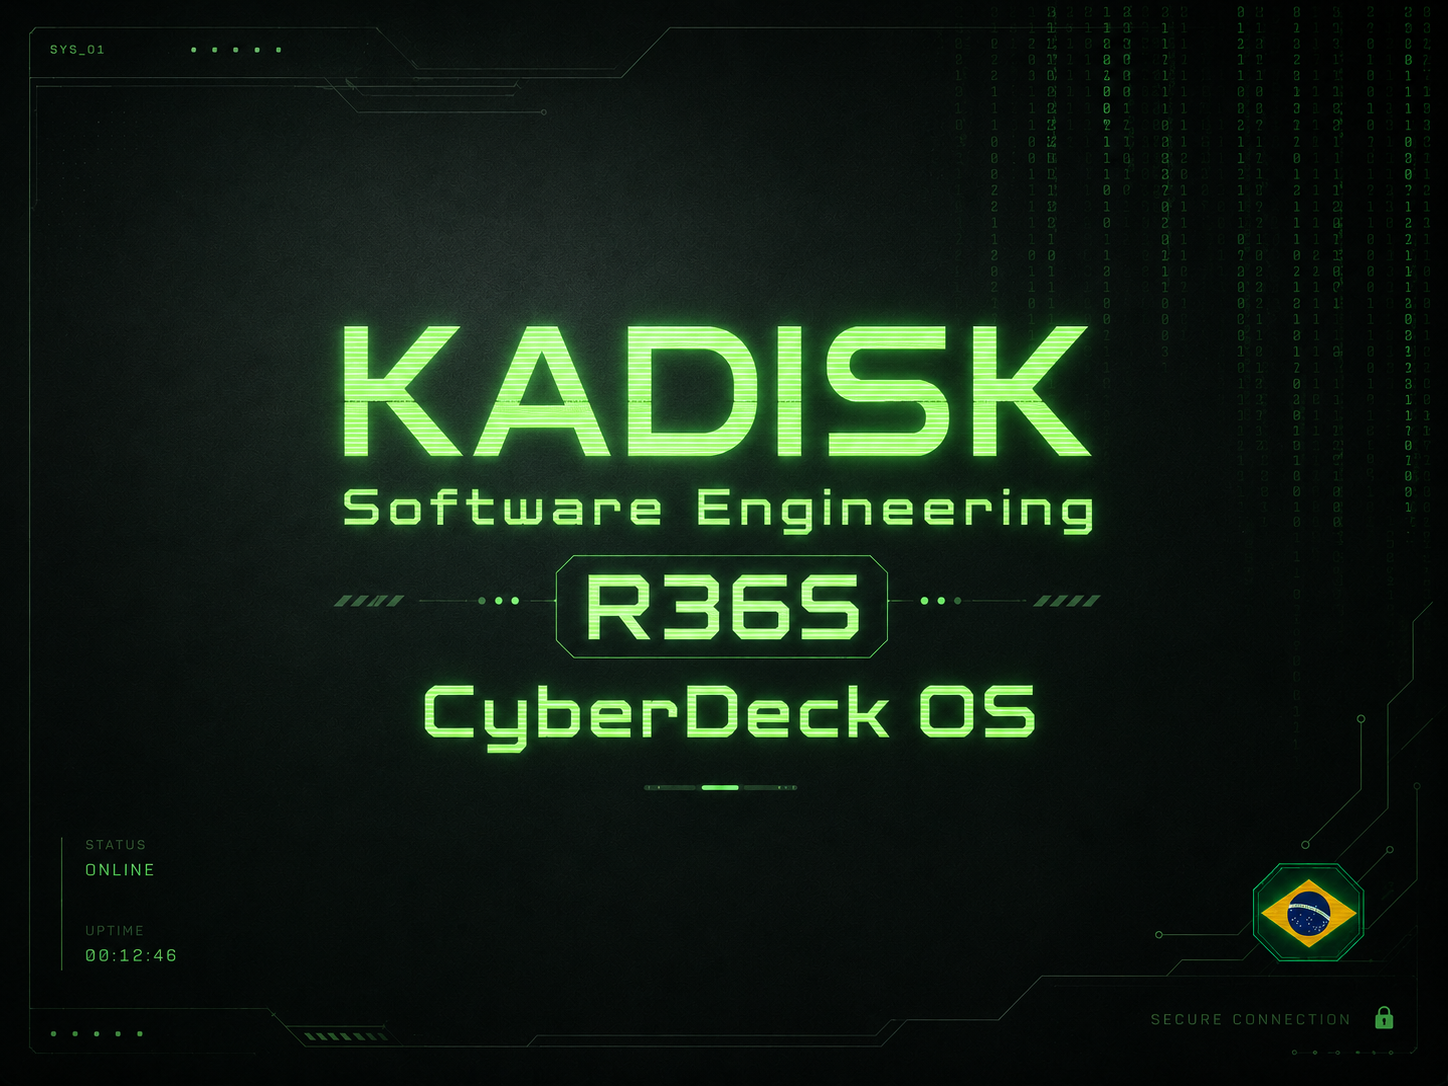
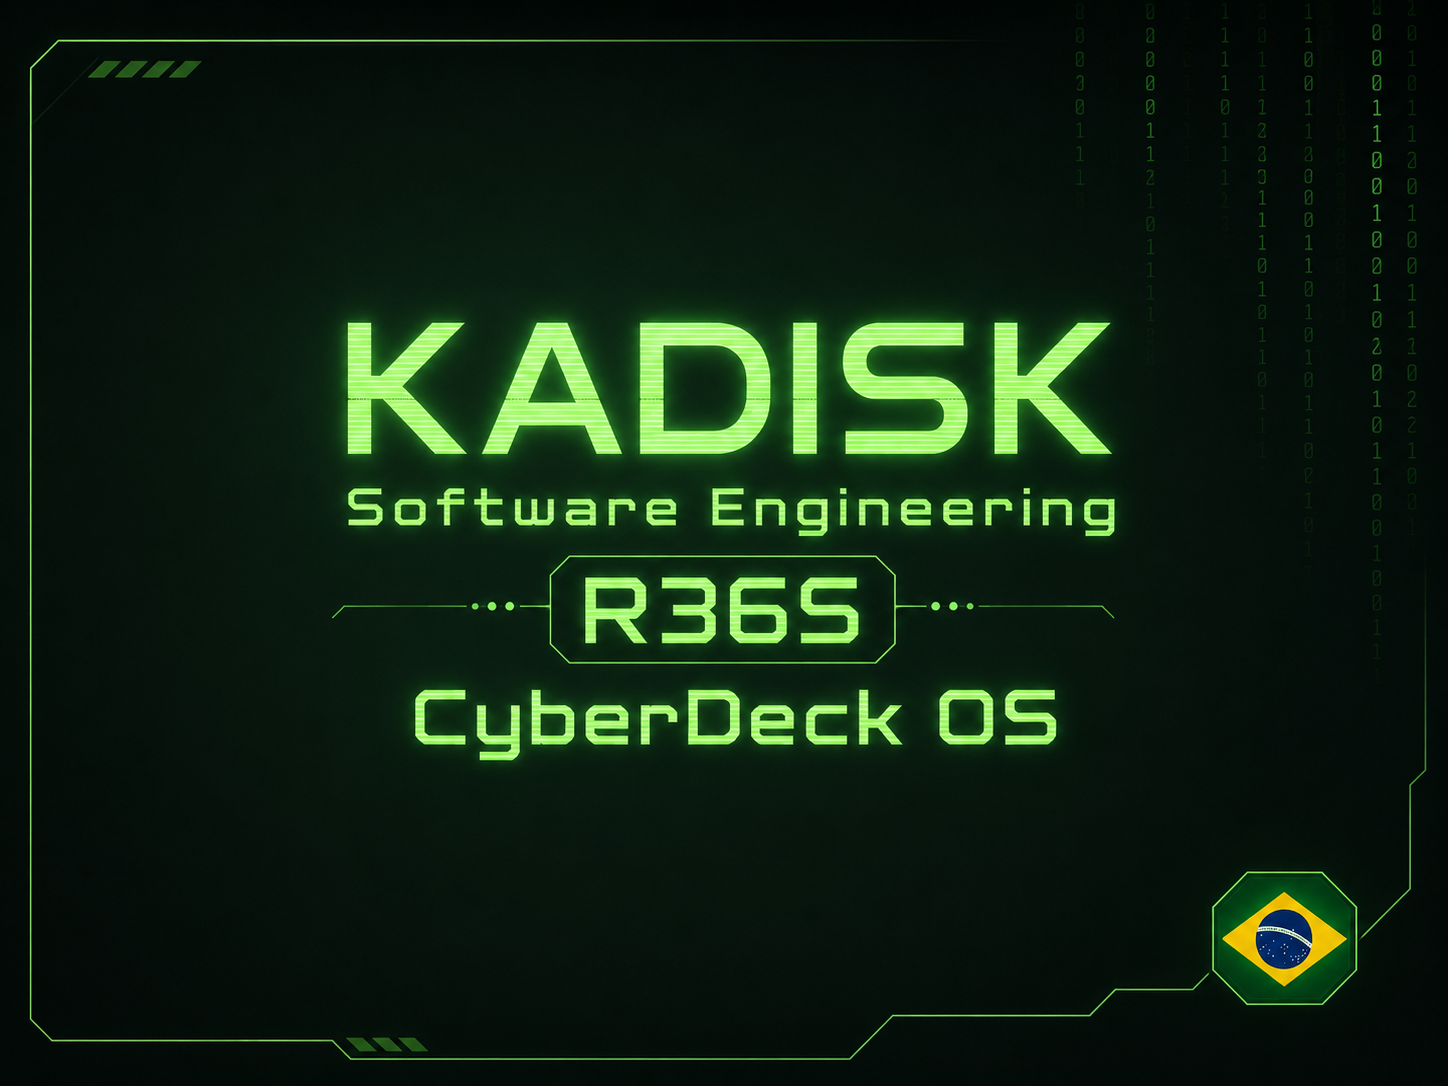
UI: esconde o ponteiro real do X — cursor virtual vira o unico ponteiro
Havia 2 ponteiros: o cursor real do X (parado no meio) + o cursor virtual do joystick.
Correcao: cursor:none global (esconde o do X, aplica via sd-update-ui) + -nocursor no
Xorg (novas imagens). O #vcursor agora fica sempre visivel (com ponto central) e eh o
unico ponteiro, controlado pelo analogico esquerdo.

diff --git a/cyberdeck-ui/public/style.css b/cyberdeck-ui/public/style.css
@@ -20,7 +20,9 @@ html, body {
   font-family: var(--font);
   font-size: 14px;
   line-height: 1.4;
+  cursor: none;            /* esconde o ponteiro real do X — só o cursor virtual aparece */
 }
+* { cursor: none; }
 
 #topbar {
   display: flex; align-items: center; gap: 8px;
@@ -75,14 +77,17 @@ pre { background: #04150b; border: 1px solid var(--line); padding: 8px; overflow
 .termfull { height: 330px; max-height: 330px; }
 .logfull  { height: 350px; max-height: 350px; }
 
-/* cursor virtual (analógico esquerdo) */
+/* cursor virtual (analógico esquerdo) — É o único ponteiro (o do X fica escondido) */
 #vcursor {
   position: fixed; top: 0; left: 0; width: 16px; height: 16px; margin: -8px 0 0 -8px;
   border: 2px solid var(--accent); border-radius: 50%; background: rgba(0,224,255,.12);
-  box-shadow: 0 0 6px var(--accent); pointer-events: none; z-index: 9999; display: none;
+  box-shadow: 0 0 8px var(--accent); pointer-events: none; z-index: 9999; display: block;
 }
-#vcursor.on { display: block; }
-#vcursor.click { background: var(--accent); transform-origin: center; }
+#vcursor::after { /* ponto central p/ precisão */
+  content: ""; position: absolute; left: 6px; top: 6px; width: 4px; height: 4px;
+  background: var(--accent); border-radius: 50%;
+}
+#vcursor.click { background: var(--accent); }
 
 #hints {
   display: flex; gap: 12px; align-items: center;